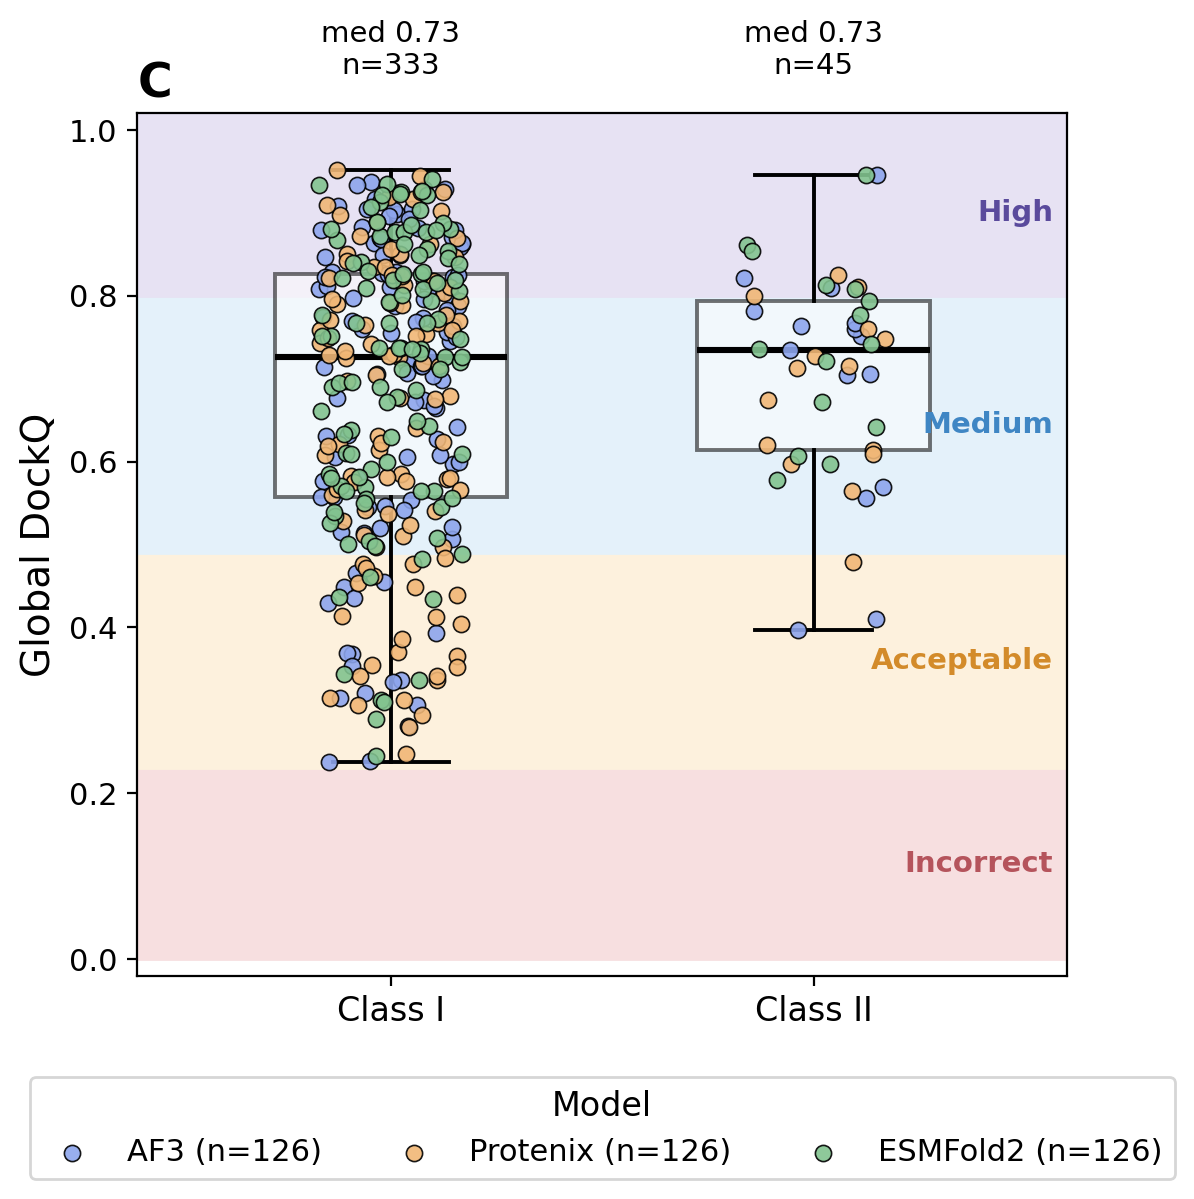
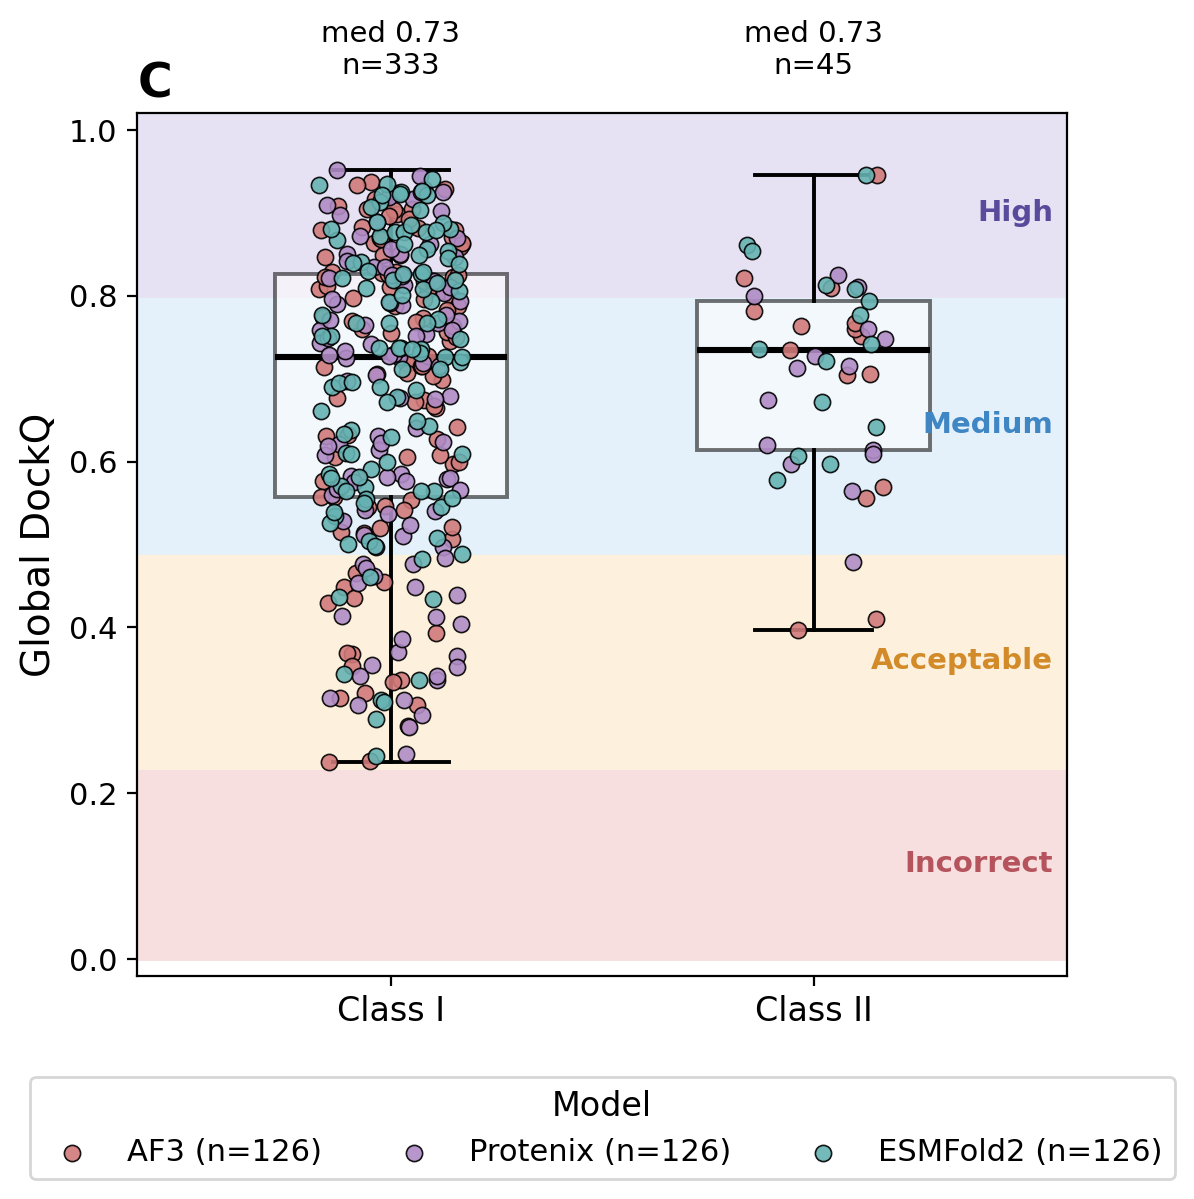
Recolour the plots to match the rendered structures
AF3 becomes firebrick and ESMFold2 teal across every panel, so the two models
keep one identity from Figure 1 to Figure 8. The structures are hand-made and
not cheap to re-render, so the plots move instead.

Protenix goes purple rather than keeping orange: lightened orange and lightened
firebrick are nearly the same dot in 2A/2B, where colour is the only key.
TCRmodel2 takes the blue AF3 vacated. In Figure 6C "both" and "neither" are now
neutral grays -- they were purple and dusty red, which under the new palette
read as Protenix and AF3.

Claude-Session: https://claude.ai/code/session_014x8hTP9SfV3XyFT3GDrAfF

diff --git a/paper/figures/scripts/3.py b/paper/figures/scripts/3.py
@@ -24,13 +24,13 @@ a = ax[0]
 a.scatter(D.mean_rmsd, D.minq, s=26, c="#7a7a7a", alpha=.65, edgecolors="none")
 rho = stats.spearmanr(D.mean_rmsd, D.minq)
 a.set_xscale("log")
-a.axhline(0.49, ls="--", lw=1, c="#b5545c")
+a.axhline(0.49, ls="--", lw=1, c="#777777")
 a.set_xlabel("AF3 vs ESMFold2 C$\\alpha$ RMSD (\\AA)" if False else "AF3 vs ESMFold2 Cα RMSD (Å)")
 a.set_ylabel("min(AF3, ESMFold2) Global DockQ")
 a.set_title(r"$\bf{A}$  Cross-model divergence vs accuracy", loc="left")
 a.text(.04, .07, f"Spearman ρ = {rho[0]:.3f}\np = {rho[1]:.1e}", transform=a.transAxes,
        va="bottom", ha="left", fontsize=9)
-a.text(.97, .52, "medium", transform=a.transAxes, ha="right", fontsize=8, color="#b5545c")
+a.text(.97, .52, "medium", transform=a.transAxes, ha="right", fontsize=8, color="#777777")
 
 # B -- accuracy by divergence quartile
 b = ax[1]
@@ -45,7 +45,7 @@ for i, (m, col) in enumerate([("af3_dockq", BASE_COLORS["AF3"]), ("esm_dockq", B
         patch.set_facecolor(col); patch.set_alpha(.55); patch.set_edgecolor(col)
 b.set_xticks(range(4)); b.set_xticklabels(D.q.cat.categories)
 b.set_ylabel("Global DockQ"); b.set_ylim(0, 1)
-b.axhline(0.49, ls="--", lw=1, c="#b5545c")
+b.axhline(0.49, ls="--", lw=1, c="#777777")
 b.set_title(r"$\bf{B}$  Accuracy by divergence quartile", loc="left")
 b.legend(handles=[plt.Line2D([], [], color=BASE_COLORS[k], lw=6, alpha=.55, label=k)
                   for k in ("AF3", "ESMFold2")], loc="lower left", frameon=False)
@@ -56,7 +56,8 @@ ok_a, ok_e = D.af3_dockq >= .49, D.esm_dockq >= .49
 counts = [int((ok_a & ok_e).sum()), int((ok_a & ~ok_e).sum()),
           int((~ok_a & ok_e).sum()), int((~ok_a & ~ok_e).sum())]
 lab = ["both", "AF3\nonly", "ESMFold2\nonly", "neither"]
-cols = ["#5a4a9c", BASE_COLORS["AF3"], BASE_COLORS["ESMFold2"], "#b5545c"]
+# both/neither are not models: keep them neutral, or they read as Protenix and AF3
+cols = ["#3f3f3f", BASE_COLORS["AF3"], BASE_COLORS["ESMFold2"], "#b0b0b0"]
 c.bar(lab, counts, color=cols, alpha=.75)
 for i, v in enumerate(counts):
     c.text(i, v + 1.5, str(v), ha="center", fontsize=10)

diff --git a/paper/figures/scripts/style.py b/paper/figures/scripts/style.py
@@ -9,8 +9,14 @@ import matplotlib.colors as mcolors
 import pandas as pd
 
 MODELS = ["AF3", "Protenix", "ESMFold2"]
-BASE_COLORS = {"AF3": "#4169E1", "Protenix": "#E8871A", "ESMFold2": "#2E9B45",
-               "TCRmodel2": "#D62728"}
+# AF3 firebrick and ESMFold2 teal are fixed by the rendered structures in
+# Figure_structure_comparisons -- those are hand-made and not cheap to recolour, so the plots
+# follow them. Nothing may go back to a red or a teal.
+# Protenix is purple, not the orange it used to be: lightened orange and lightened firebrick are
+# nearly the same dot in 2A/2B, where colour is the only key. Purple/blue is the weakest pair
+# left, and it only co-occurs in 1A/1B, where the x axis names every model anyway.
+BASE_COLORS = {"AF3": "#B22222", "Protenix": "#7B3FA0", "ESMFold2": "#008080",
+               "TCRmodel2": "#4169E1"}
 # TCRmodel2 is deliberately NOT in MODELS: 1A and 1B append it themselves. Its completed
 # runnable Class I set contributes 111 of the 126 signed-off, scoreable structures
 # (9J4S has no scoreable native interface); the colour lives here so 1A shares the palette.
